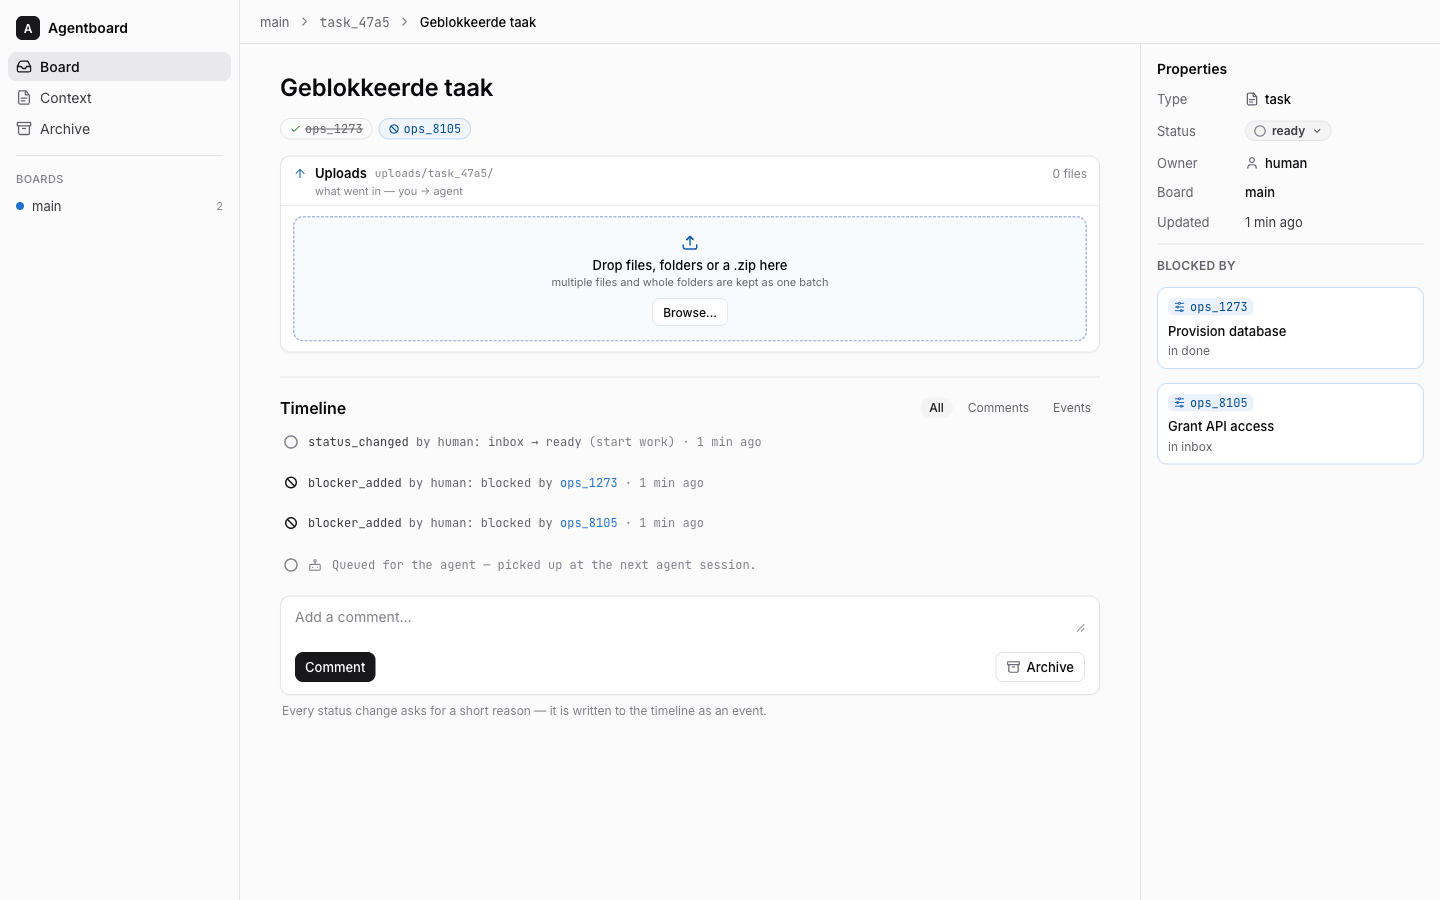
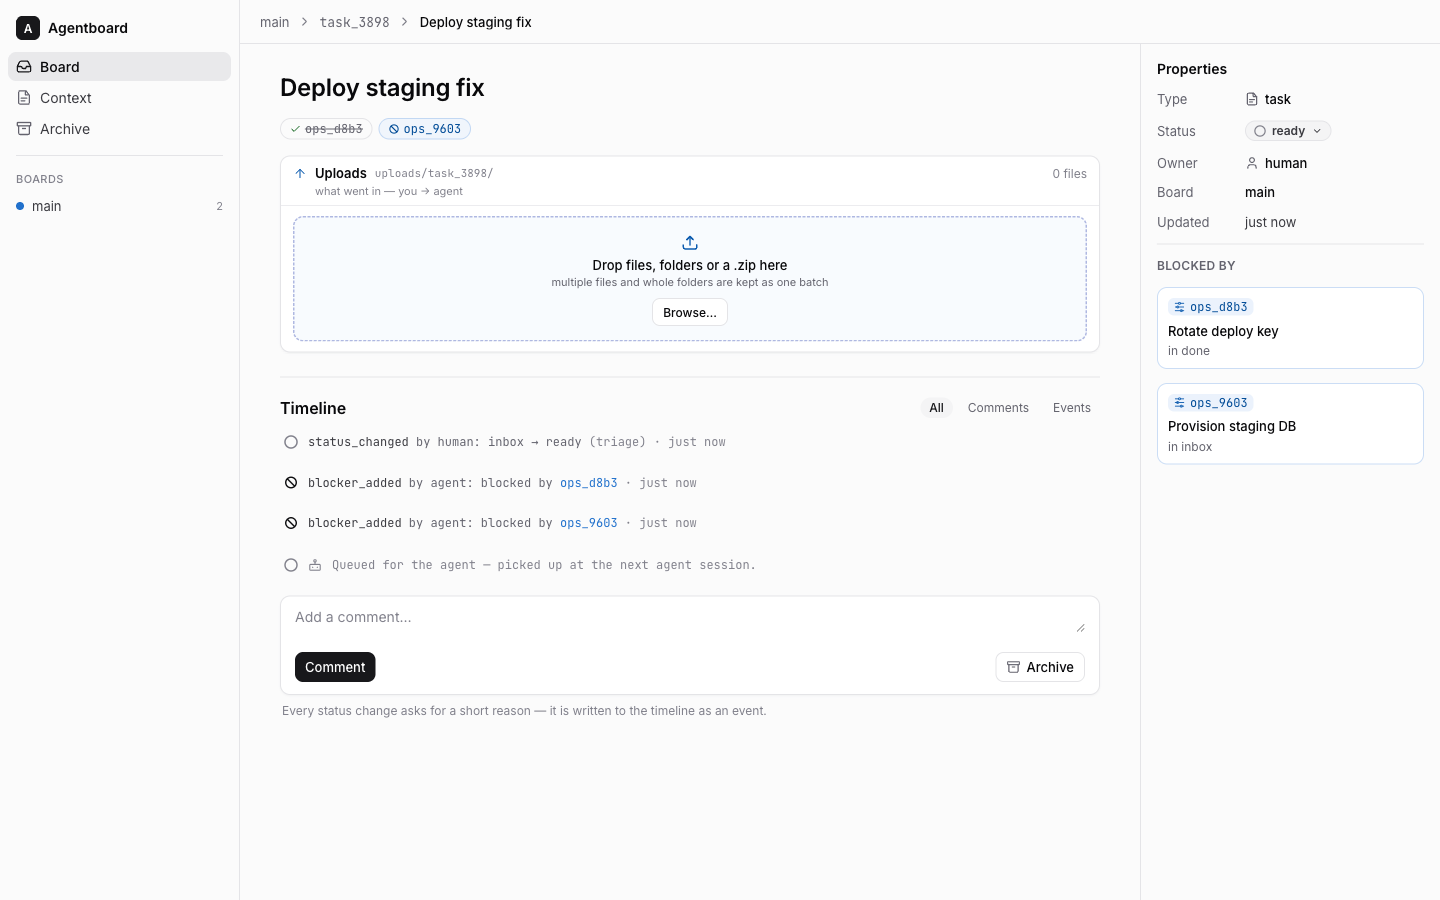
fix: post-review fix-wave — README flags, atomic edit, immediate txns, screenshot
Four findings from the final whole-branch review of blockers & claiming:

- README: document card new --blocks/--as, card move --from, and
  card edit --blocked-by in the "CLI flags beyond the bare minimum" section.
- core: editCard now validates (existence/self/cycle) and UPDATEs inside
  one db.transaction, like editComment, so concurrent edits cannot jointly
  commit a cycle.
- core: moveCard, createCard's --blocks path, and editCard's new
  transaction all run .immediate() instead of the deferred default, so a
  photo-finish surfaces the friendly claim error instead of a raw
  SQLITE_BUSY_SNAPSHOT.
- verify: timeline-blocker-added-1440.png was byte-identical to
  detail-blocker-chips-1440.png; recaptured a genuine timeline screenshot
  showing two distinct blocker_added rows.

Claude-Session: https://claude.ai/code/session_01YSSTEoR6Hd4GEkrRmNHAEs

diff --git a/src/core/cards.ts b/src/core/cards.ts
@@ -250,7 +250,7 @@ export function createCard(input: {
         addEventIn(db, target.id, 'blocker_added', actor, { blocker: id });
       }
     });
-    create();
+    create.immediate();
     return getCardIn(db, id);
   } finally {
     db.close();
@@ -344,7 +344,7 @@ export function moveCard(id: string, to: string, opts: { actor: string; reason: 
       // Invariant 1: every status change writes an event with from, to, reason.
       addEventIn(db, id, 'status_changed', actor, { from: card.status, to: status, reason: opts.reason });
     });
-    move();
+    move.immediate();
     return getCardIn(db, id);
   } finally {
     db.close();
@@ -433,21 +433,26 @@ export function editCard(
 
   const db = openDb();
   try {
-    getCardIn(db, id);
-    if (fields.blockedBy !== undefined) {
-      for (const bid of fields.blockedBy) {
-        if (bid === id) throw new Error(`Card ${id} cannot block itself`);
-        getCardIn(db, bid); // throws Card not found for dangling ids
+    // Validation + UPDATE in one transaction: concurrent edits cannot each
+    // pass the cycle check against a stale blocked_by and jointly commit one.
+    const edit = db.transaction(() => {
+      getCardIn(db, id);
+      if (fields.blockedBy !== undefined) {
+        for (const bid of fields.blockedBy) {
+          if (bid === id) throw new Error(`Card ${id} cannot block itself`);
+          getCardIn(db, bid); // throws Card not found for dangling ids
+        }
+        assertNoBlockerCycle(db, id, fields.blockedBy);
       }
-      assertNoBlockerCycle(db, id, fields.blockedBy);
-    }
-    if (fields.board !== undefined) {
-      sets.push('board_id = ?');
-      values.push(resolveBoardIn(db, fields.board));
-    }
-    sets.push('updated_at = ?');
-    values.push(now(), id);
-    db.prepare(`UPDATE card SET ${sets.join(', ')} WHERE id = ?`).run(...values);
+      if (fields.board !== undefined) {
+        sets.push('board_id = ?');
+        values.push(resolveBoardIn(db, fields.board));
+      }
+      sets.push('updated_at = ?');
+      values.push(now(), id);
+      db.prepare(`UPDATE card SET ${sets.join(', ')} WHERE id = ?`).run(...values);
+    });
+    edit.immediate();
     return getCardIn(db, id);
   } finally {
     db.close();

diff --git a/README.md b/README.md
@@ -206,6 +206,13 @@ Each of these exists because the schema or an invariant needs it:
 - `ctx write --card <id>` — invariant 3 needs a card for the commit message
   and the `context_written` event. `--message` overrides the default commit
   message.
+- `card new --blocks <id>` — links the new card as blocker in one
+  transaction with the `blocker_added` event; `--as` sets that event's
+  actor.
+- `card move --from <status>` — the race-free claim: moves the card only
+  if it is still in that status.
+- `card edit --blocked-by <ids>` — full-list replace, validated for
+  existence, self-blocking and cycles.
 
 ## Structure
 
